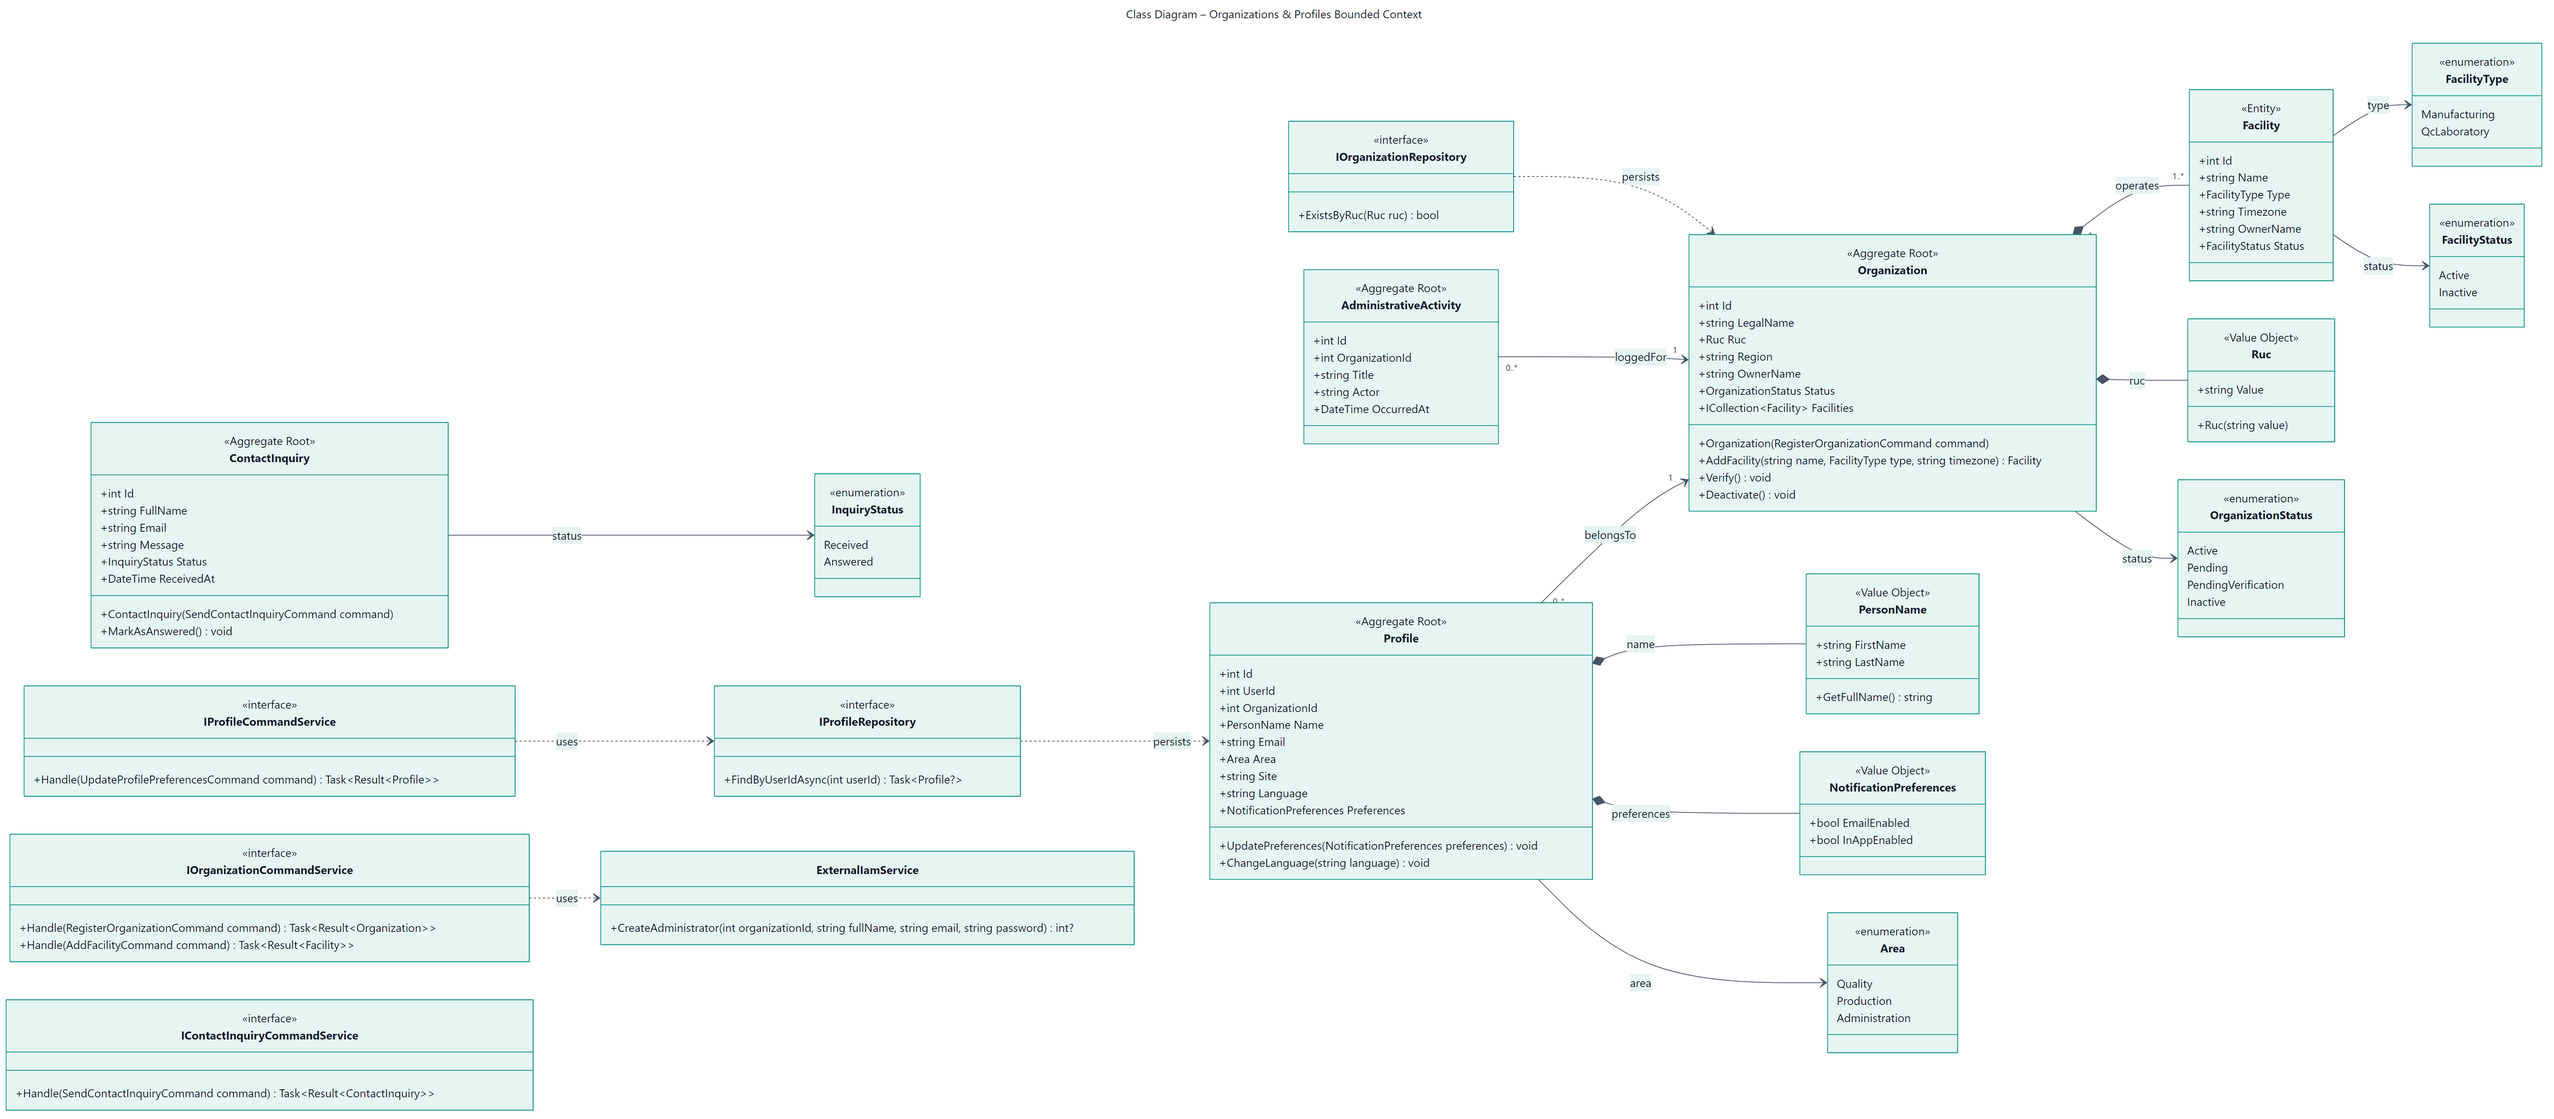
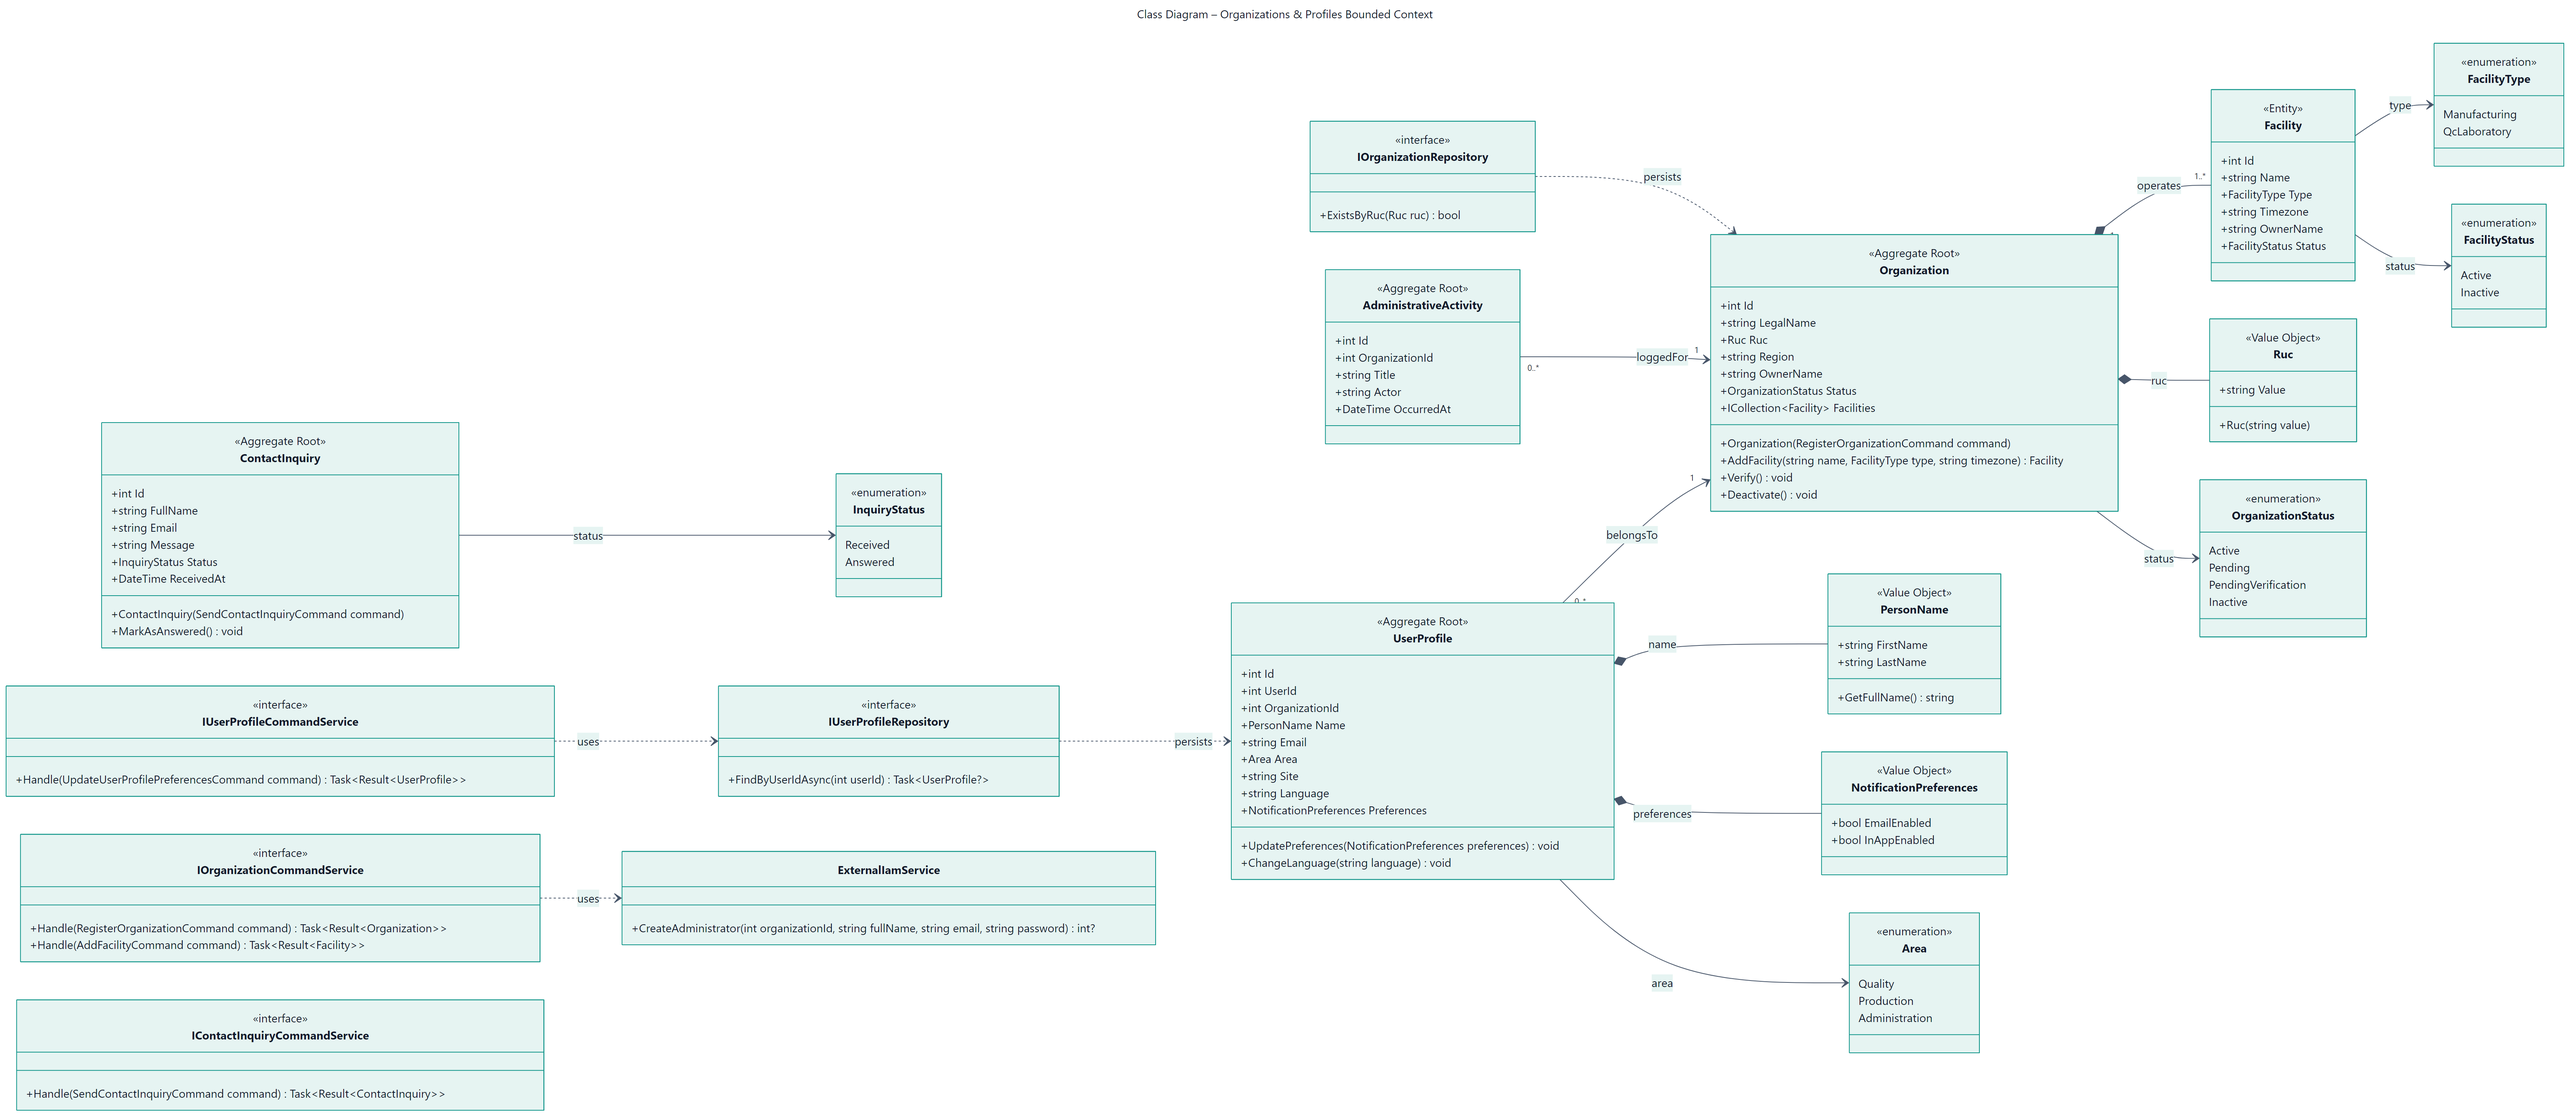
fix(diagrams): name the profiles table user_profiles like the web app and the backend

diff --git a/docs/chapter4.md b/docs/chapter4.md
@@ -1256,7 +1256,7 @@ El diseño orientado a objetos traduce los aggregates del Design-Level EventStor
 
 ![Class Diagram - IAM](../assets/img/chapter4/diagram-class/class-01-iam.png)
 
-**Organizations & Profiles.** `Organization` agrupa sus plantas (`Facility`, de manufactura o de laboratorio de control de calidad) y se identifica por el value object `Ruc`; `Profile` guarda los datos, el área, la sede y las preferencias de cada usuario; `AdministrativeActivity` registra la actividad reciente que muestra el resumen de administración; `ContactInquiry` registra las consultas enviadas desde el formulario "Contact us" de la Web Application y, mediante una policy, avisa al equipo de DoofPlus.
+**Organizations & Profiles.** `Organization` agrupa sus plantas (`Facility`, de manufactura o de laboratorio de control de calidad) y se identifica por el value object `Ruc`; `UserProfile` guarda los datos, el área, la sede y las preferencias de cada usuario; `AdministrativeActivity` registra la actividad reciente que muestra el resumen de administración; `ContactInquiry` registra las consultas enviadas desde el formulario "Contact us" de la Web Application y, mediante una policy, avisa al equipo de DoofPlus.
 
 ![Class Diagram - Organizations & Profiles](../assets/img/chapter4/diagram-class/class-02-organizations.png)
 
@@ -1291,7 +1291,7 @@ Los diagramas se elaboraron con Mermaid (Diagram-as-Code), uno por bounded conte
 | Bounded context | Tablas | Aggregates que persiste |
 | --- | --- | --- |
 | IAM | users, roles, user_roles, invitations, electronic_signatures | User, Invitation, ElectronicSignature |
-| Organizations & Profiles | organizations, facilities, profiles, administrative_activities, contact_inquiries | Organization, Profile, AdministrativeActivity, ContactInquiry |
+| Organizations & Profiles | organizations, facilities, user_profiles, administrative_activities, contact_inquiries | Organization, UserProfile, AdministrativeActivity, ContactInquiry |
 | Subscriptions & Payments | plans, subscriptions, payments | Plan, Subscription |
 | Manufacturing & Batch Management | products, master_formulas, formula_items, raw_material_lots, production_orders, operations, production_batches, material_consumptions, incidents, batch_events | Product, MasterFormula, RawMaterialLot, ProductionOrder, ProductionBatch |
 | IoT Monitoring | equipment, calibration_records, maintenance_records, sensors, readings, alerts | Equipment, Sensor, Reading, Alert |
